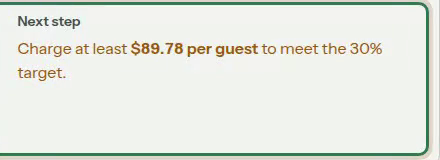
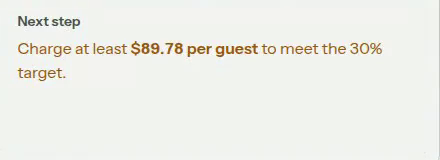
fix(proof): recut the hero and price crops from cursor-free frames
The hero pricing panel moves from 0:29 to 0:32 and the usable-cost panel
from 2:05 to 2:04, both chosen with no cursor and no focus highlight in
frame. Alt text and the RC-48 timestamps follow the pixels.

Claude-Session: https://claude.ai/code/session_01KgXzp3t6hpDM8eq1yyfvR2

Changed region(s): [[0.0, 0.0, 1.0, 1.0], [0.4136, 0.3125, 0.4432, 0.3438]]

diff --git a/docs/release-claim-ledger.md b/docs/release-claim-ledger.md
@@ -77,7 +77,7 @@ Unless a row says otherwise, shipped evidence is read at the demo-base commit an
 | RC-46 | Sage, an in-app assistant that answers from a kitchen's own numbers, is in development, is not in the marketed release, and carries no date. | Owner-approved release boundary | `git grep -il -E '\\bsage\\b|assistant' origin/sandbox/demo -- src` returns five files, all false positives: the herb in two catalog files, plus `app.css`, `tint.ts` and `TintTag.svelte` matching on substrings. There is no assistant, chat or Sage route, component, server module or feature flag anywhere under `src/`, and unlike Square there is not even a `ReleaseFeature` key reserved for one. `src/lib/comparison.ts` row "An assistant that answers from your numbers" is `costcook: 'coming'`; `src/lib/features.ts` group `assistant` is `status: 'in-development'` | Re-run the grep on the deployed SHA and confirm it still returns only the herb and the substring matches. |
 | RC-47 | The homepage may characterise the CATEGORY of kitchen software it competes with (tools built around a menu that repeats) without naming any company, on the condition that no sentence states what another product cannot do, and that the section links to /compare for the named, dated table. The four capability give-ups it lists are existing /compare rows and may not be softened: printed USDA nutrition labels (coming), buying that tops up to par (no), dietary characteristics (no), English and Spanish (no). | Owner-approved comparison | Owner request of 2026-08-27 asking for the competitive story on the homepage. Sits under RC-40, which scopes NAMED comparison to /compare and is unchanged by this row. Category claim rests on RC-01 and RC-03: the estimate starts from a costed menu plus a guest count, which is the shape a fixed repeating service does not have. The four give-ups are `src/lib/comparison.ts` rows 'Printed USDA nutrition labels', 'Buying that tops up to par', 'Dietary characteristics', 'English and Spanish'; `src/components/sections/TheOtherTools.astro` | Read every sentence in the section against this test: does it describe an assumption, or does it assert a limitation of a product nobody has named? Only the first is allowed. Then confirm the four give-ups still match their /compare rows, and that none of them repeats one of RC-44's four misfit lines. FINALLY, confirm the framing sentence still separates the `no` rows from the `coming` one: three of the four are not planned and printed labels is being built, and a heading that reads all four as absent flattens the distinction /compare's legend exists to preserve. |
 
-| RC-48 | A homepage product image is a frame of the shipped walkthrough (`public/demo.mp4`, RC-33) or a capture from the same demo world and capture run, never a mockup, a composite, or a retouched frame. Each one is shown at its captured size or smaller, its alt text reads off the pixels word for word, and where it comes from the footage the timestamp is printed beside it. The pricing-panel crop in the hero and the four crops in the outcomes section are the current set. | Landing proof | `public/proof/hero-pricing.png`, `hero-pricing-mobile.png` (0:29); `outcome-quote.png` (0:29), `outcome-prep.png` (1:00), `outcome-po.png` (1:36), `outcome-price.png` (2:05); `src/components/sections/Hero.astro`, `CustomerOutcomes.astro` | Scrub the footage to each printed timestamp and confirm the crop is that frame; read every alt against its image; confirm no image renders wider than its `width` attribute. When the walkthrough is re-recorded, recut every crop from the new footage in the same pass that rewrites the transcript. |
+| RC-48 | A homepage product image is a frame of the shipped walkthrough (`public/demo.mp4`, RC-33) or a capture from the same demo world and capture run, never a mockup, a composite, or a retouched frame. Each one is shown at its captured size or smaller, its alt text reads off the pixels word for word, and where it comes from the footage the timestamp is printed beside it. The pricing-panel crop in the hero and the four crops in the outcomes section are the current set. | Landing proof | `public/proof/hero-pricing.png`, `hero-pricing-mobile.png` (0:32); `outcome-quote.png` (0:29), `outcome-prep.png` (1:00), `outcome-po.png` (1:36), `outcome-price.png` (2:04). Frames are chosen with no cursor and no focus highlight in the crop, so nothing in the image is an artefact of the recording; `src/components/sections/Hero.astro`, `CustomerOutcomes.astro` | Scrub the footage to each printed timestamp and confirm the crop is that frame; read every alt against its image; confirm no image renders wider than its `width` attribute. When the walkthrough is re-recorded, recut every crop from the new footage in the same pass that rewrites the transcript. |
 
 ## Claims that are intentionally excluded
 
